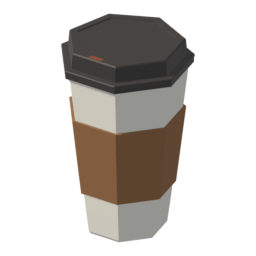
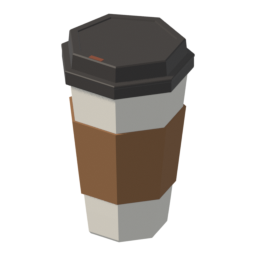
feat(121): stop-leak thumbnail rebuilt — ten-sided, angled label bands, STOP/LEAK; coffee lid skirt deeper

Changed region(s): [[0.25, 0.25, 0.7812, 0.4062], [0.2188, 0.2188, 0.25, 0.2812]]

diff --git a/assets/models/src/items.py b/assets/models/src/items.py
@@ -81,6 +81,12 @@ MATS = {
     "Zinc":       ((0.52, 0.50, 0.40, 1), 0.4),
     "Brass":      ((0.55, 0.36, 0.07, 1), 0.4),
     "GaugeFace":  ((0.82, 0.82, 0.80, 1), 0.5),
+    # Stop-leak bottle (2026-10-21): printed label colours.
+    "BottleNavy": ((0.010, 0.018, 0.050, 1), 0.45),
+    "CapRed":     ((0.70, 0.02, 0.025, 1), 0.45),
+    "LabelGreen": ((0.05, 0.38, 0.05, 1), 0.5),
+    "LabelOrange":((0.88, 0.36, 0.02, 1), 0.5),
+    "LabelRed":   ((0.72, 0.03, 0.02, 1), 0.5),
 }
 
 
@@ -276,9 +282,9 @@ def build_coffee():
     z0, z1 = 0.034, 0.094
     b.lathe([(r(z0), z0), (r(z0) + 0.0022, z0), (r(z0 + 0.03) + 0.0022, z0 + 0.03), (r(z1) + 0.0022, z1), (r(z1), z1)],
             SEG, "CupSleeve", cap_bottom=False, cap_top=False, phase=PH)
-    # Lid: a skirt over the rolled rim with a bead, a flat shelf, then a near-vertical wall up to a
+    # Lid: a skirt reaching down past the rolled rim (owner, 2026-10-21) with a bead, a flat shelf, then a near-vertical wall up to a
     # squared-off raised band around a recessed flat centre; the sip slot sits on the band at the front.
-    b.lathe([(0.0478, 0.1290), (0.0492, 0.1298), (0.0492, 0.1335), (0.0497, 0.1342), (0.0497, 0.1356),
+    b.lathe([(0.0458, 0.1252), (0.0490, 0.1252), (0.0492, 0.1262), (0.0492, 0.1335), (0.0497, 0.1342), (0.0497, 0.1356),
              (0.0492, 0.1362), (0.0444, 0.1366), (0.0434, 0.1478), (0.0426, 0.1488), (0.0372, 0.1488),
              (0.0366, 0.1478), (0.0, 0.1478)], SEG, "CupLid", cap_bottom=False, cap_top=False, phase=PH)
     ap = 0.0403 * math.cos(math.pi / SEG)   # the raised band's mid radius, measured to the front flat
@@ -911,17 +917,70 @@ def build_tirePlugKit():
 
 
 def build_stopLeak():
-    """A bottle of radiator stop-leak: white bottle, yellow label with a red band, knurled black cap."""
-    b = Builder(); SEG = 28
-    b.lathe([(0.0, 0.0), (0.032, 0.0), (0.036, 0.004), (0.036, 0.128), (0.032, 0.143), (0.022, 0.158), (0.015, 0.166),
-             (0.015, 0.176)], SEG, "PlasticWhite", cap_bottom=False, cap_top=False)
-    b.lathe([(0.0365, 0.022), (0.0365, 0.116)], SEG, "LabelYellow", cap_bottom=False, cap_top=False)
-    b.lathe([(0.0369, 0.080), (0.0369, 0.094)], SEG, "CanRed", cap_bottom=False, cap_top=False)
-    b.lathe([(0.0369, 0.036), (0.0369, 0.041)], SEG, "CanBlack", cap_bottom=False, cap_top=False)
-    b.lathe([(0.0175, 0.170), (0.0175, 0.197), (0.0145, 0.2005), (0.0, 0.201)], SEG, "CanBlack", cap_bottom=False)
-    for k in range(18):
-        a = 2 * math.pi * (k + 0.5) / 18
-        b.bar((0.018 * math.cos(a), 0.018 * math.sin(a), 0.173), (0.018 * math.cos(a), 0.018 * math.sin(a), 0.195), 0.0025, "CanBlack")
+    """A bottle of radiator stop-leak, ten-sided (owner, 2026-10-21): dark navy bottle, red cap, a
+    printed label whose colour bands rise to the right, and STOP over LEAK in two lines. Bands and
+    letters are laid out flat (u = distance round the bottle from the front facet's centre, z = height),
+    cut at the facet edges and folded onto the facets, so every piece lies flat on its facet."""
+    b = Builder(); N = 10; R = 0.036
+    TH = math.atan2(VIEW_DIR.y, VIEW_DIR.x)            # the front facet faces the camera
+    PH = TH - math.pi / N                              # lathe phase that centres a facet on TH
+    ap, w = R * math.cos(math.pi / N), 2 * R * math.sin(math.pi / N)
+    b.lathe([(0.0, 0.0), (0.032, 0.0), (R, 0.004), (R, 0.129), (0.0345, 0.140), (0.030, 0.150), (0.024, 0.157),
+             (0.0185, 0.161), (0.0175, 0.164), (0.0175, 0.170)], N, "BottleNavy", cap_top=False, phase=PH)
+    b.lathe([(0.0175, 0.166), (0.0198, 0.166), (0.0198, 0.170), (0.0175, 0.170)], N, "CapRed",
+            cap_bottom=False, cap_top=False, phase=PH)
+    b.lathe([(0.0175, 0.1705), (0.0205, 0.1705), (0.0205, 0.1925), (0.0183, 0.1950), (0.0, 0.1952)], N, "CapRed",
+            cap_bottom=False, phase=PH)
+    for k in range(2 * N):   # cap ribs: on the corners and on each facet's centre, sitting on the surface
+        a = PH + math.pi * k / N
+        rr = (0.0205 if k % 2 == 0 else 0.0205 * math.cos(math.pi / N)) + 0.0006
+        b.bar((rr * math.cos(a), rr * math.sin(a), 0.1725), (rr * math.cos(a), rr * math.sin(a), 0.1915), 0.0018, "CapRed")
+
+    def clip(poly, a, c, k):   # keep the part of a 2D polygon where a*u + c*z <= k
+        out = []
+        for i, p in enumerate(poly):
+            q = poly[(i + 1) % len(poly)]
+            dp, dq = a * p[0] + c * p[1] - k, a * q[0] + c * q[1] - k
+            if dp <= 0:
+                out.append(p)
+            if dp * dq < 0:
+                t = dp / (dp - dq); out.append((p[0] + t * (q[0] - p[0]), p[1] + t * (q[1] - p[1])))
+        return out
+
+    def decal(poly, mat, lift):   # fold a flat (u, z) polygon onto the facets, `lift` proud of them
+        sc = 1 + lift / ap
+        for j in range(-N // 2, N // 2):
+            piece = clip(clip(poly, 1, 0, (j + 0.5) * w), -1, 0, -(j - 0.5) * w)
+            if len(piece) < 3:
+                continue
+            ph = TH + 2 * math.pi * j / N
+            b.face([((ap * math.cos(ph) - (u - j * w) * math.sin(ph)) * sc,
+                     (ap * math.sin(ph) + (u - j * w) * math.cos(ph)) * sc, z) for u, z in piece], mat)
+
+    S, Z0, Z1, U = 0.30, 0.006, 0.127, N * w / 2        # band slope, label bottom/top, half the way round
+    def band(lo, hi, mat):   # lo/hi: the band's edges at the front (u = 0); None = the label's own edge
+        poly = [(-U, Z0), (U, Z0), (U, Z1), (-U, Z1)]
+        if lo is not None:
+            poly = clip(poly, S, -1, -lo)
+        if hi is not None:
+            poly = clip(poly, -S, 1, hi)
+        decal(poly, mat, 0.0003)
+    band(None, 0.033, "LabelOrange"); band(0.033, 0.044, "LabelGreen")
+    band(0.091, 0.102, "LabelGreen"); band(0.107, 0.115, "LabelRed")
+
+    def words(text, size, offset, centre, mat, lift):   # Blender's text -> triangles, tilted with the bands
+        cu = bpy.data.curves.new("txt", "FONT"); cu.body = text; cu.size = size; cu.offset = offset
+        cu.shear = 0.15; cu.align_x = "CENTER"; cu.align_y = "CENTER"
+        ob = bpy.data.objects.new("txt", cu); bpy.context.collection.objects.link(ob)
+        ev = ob.evaluated_get(bpy.context.evaluated_depsgraph_get()); me = ev.to_mesh()
+        ca, sa = math.cos(math.atan(S)), math.sin(math.atan(S))
+        for p in me.polygons:
+            decal([(centre[0] + me.vertices[i].co.x * ca - me.vertices[i].co.y * sa,
+                    centre[1] + me.vertices[i].co.x * sa + me.vertices[i].co.y * ca) for i in p.vertices], mat, lift)
+        ev.to_mesh_clear(); bpy.data.objects.remove(ob); bpy.data.curves.remove(cu)
+    words("STOP", 0.024, 0.0008, (0.0, 0.0790), "LabelOrange", 0.0009)
+    words("LEAK", 0.024, 0.0018, (0.0, 0.0560), "PlasticWhite", 0.0006)   # white outline, like the print
+    words("LEAK", 0.024, 0.0008, (0.0, 0.0560), "LabelRed", 0.0009)
     return b.finish("stopLeak")
 
 
